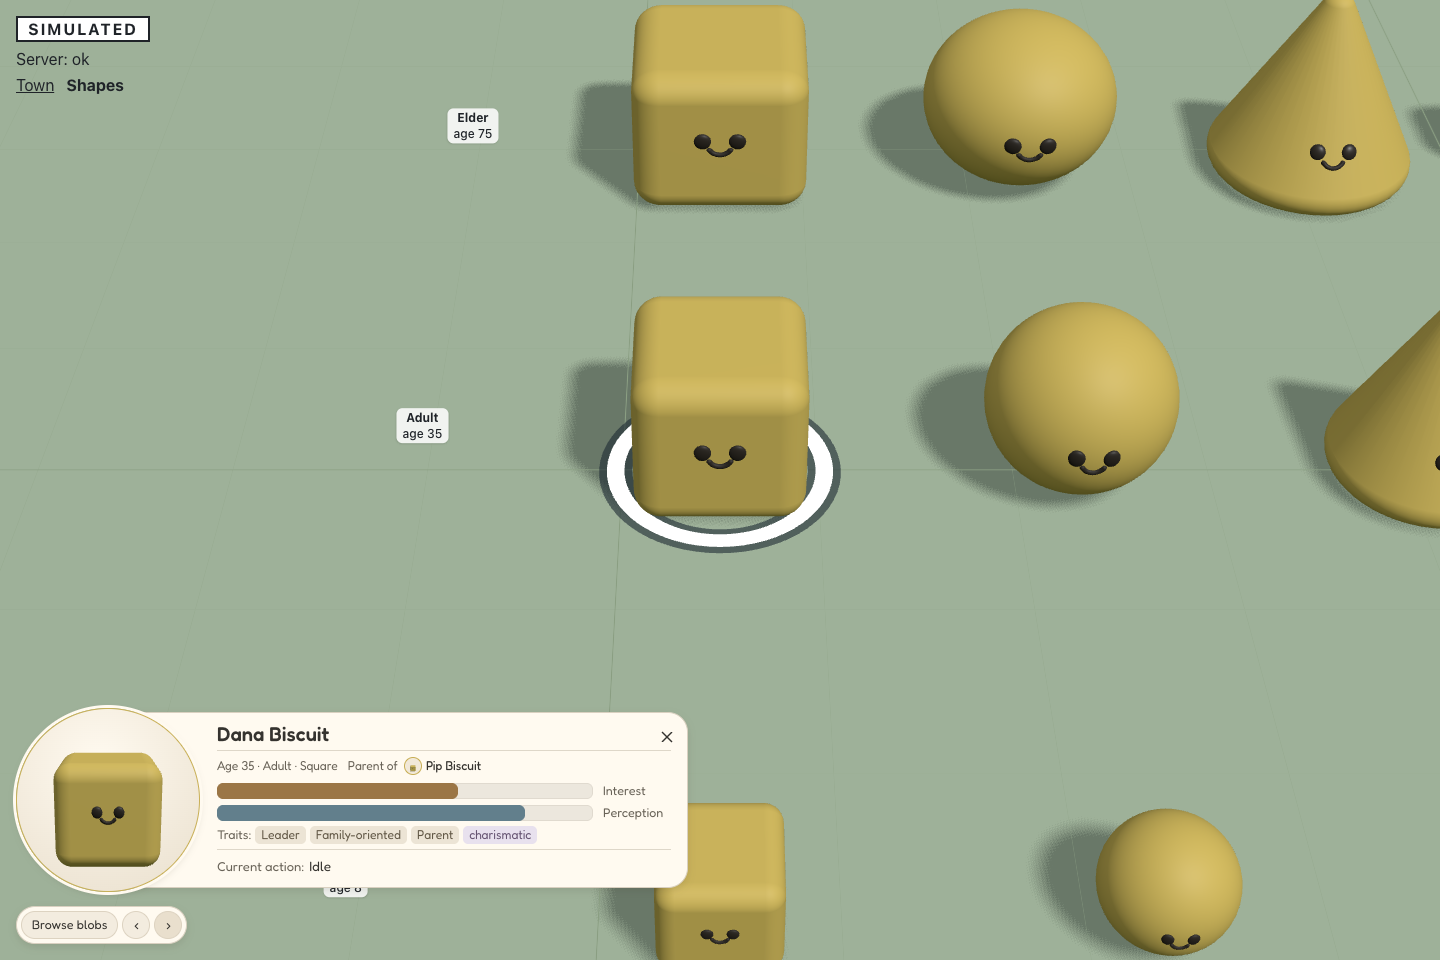
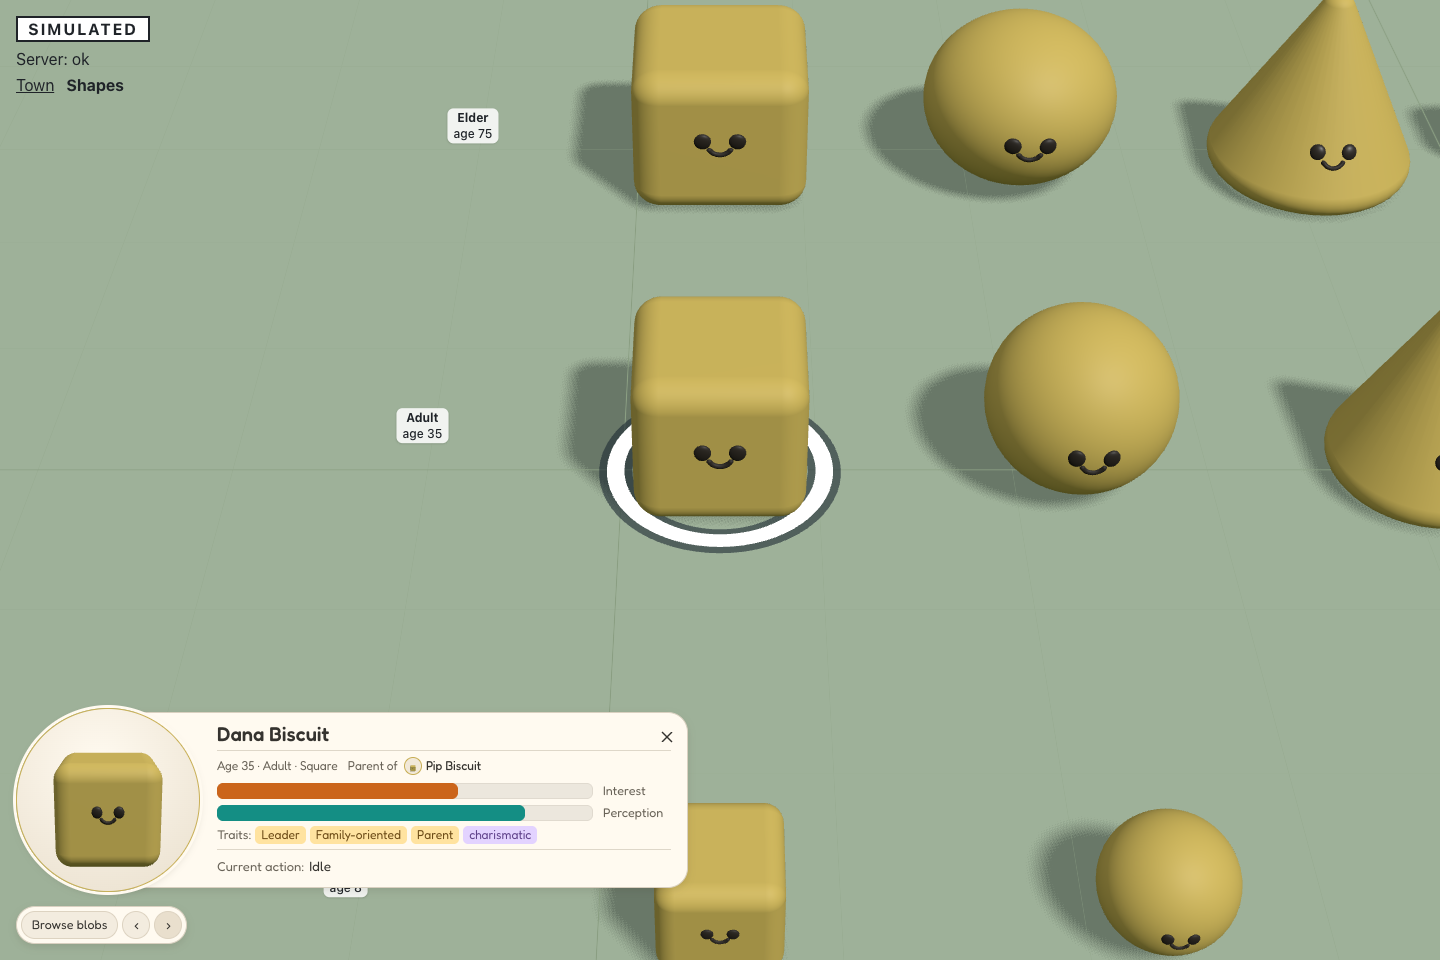
style: brighten inspector meters and trait highlights

Changed region(s): [[0.125, 0.8125, 0.375, 0.9062]]

diff --git a/web/src/inspector/inspector.css b/web/src/inspector/inspector.css
@@ -403,10 +403,10 @@
   overflow-wrap: anywhere;
 }
 
-/* Warm neutral special tags; personality categories have restrained pastel highlights. */
+/* Sunny special tags and brighter pastel personality highlights retain dark, readable text. */
 .tag-special {
-  background: #ece4d5;
-  color: #615745;
+  background: #ffe3a0;
+  color: #6c4b16;
   font-weight: 400;
 }
 
@@ -417,18 +417,18 @@
 }
 
 .tag-credulity {
-  --tag-tint: #dfe9ed;
-  --tag-ink: #465e68;
+  --tag-tint: #c9edf9;
+  --tag-ink: #245c73;
 }
 
 .tag-socialness {
-  --tag-tint: #f3e3ce;
-  --tag-ink: #765935;
+  --tag-tint: #ffdbb5;
+  --tag-ink: #78431c;
 }
 
 .tag-persuasiveness {
-  --tag-tint: #e8e1ee;
-  --tag-ink: #655371;
+  --tag-tint: #e3d3ff;
+  --tag-ink: #60428b;
 }
 
 /* Meters show only their labels; values and score words remain on the accessible meter. */
@@ -464,11 +464,11 @@
 }
 
 .meter-perception .meter-fill {
-  background: #627f8c;
+  background: #148e84;
 }
 
 .meter-interest .meter-fill {
-  background: #9b7646;
+  background: #cb651b;
 }
 
 .meter-label {

diff --git a/docs/BLOB_INSPECTOR.md b/docs/BLOB_INSPECTOR.md
@@ -2,7 +2,7 @@
 
 On **Shapes**, click or tap any blob to open its bottom-left profile. A ring marks the selection. Click another blob to switch; click empty ground, press Escape, or use the close button to dismiss. Orbit/pan gestures do not change the selection, even when the pointer returns to where it started.
 
-The compact ivory panel uses rounded, self-hosted **Fredoka** typography and a circular portrait overlapping its left edge. On desktop the dock is 672px wide, the portrait is 184px across, and the usual rectangle is 176px high. The aligned content column follows the reference sketch: name and divider; age, life stage, shape and inline family portraits; two stacked 16px Interest / Perception bars with labels on the right; muted trait highlights; and a divided **Current action** row with the conversation partner's portrait. **Special tags** (Leader, Recluse, Family-oriented and explicit Parent / Child roles) and personality tags share the visual trait row but retain separate accessible lists. On phones, a 68px portrait overlaps the panel edge beside the identity, with full-width meters, traits and activity below; longer content wraps rather than being clipped. The browse controls and picker use the same palette and typography.
+The compact ivory panel uses rounded, self-hosted **Fredoka** typography and a circular portrait overlapping its left edge. On desktop the dock is 672px wide, the portrait is 184px across, and the usual rectangle is 176px high. The aligned content column follows the reference sketch: name and divider; age, life stage, shape and inline family portraits; two stacked 16px Interest / Perception bars with labels on the right; bright pastel trait highlights; and a divided **Current action** row with the conversation partner's portrait. **Special tags** (Leader, Recluse, Family-oriented and explicit Parent / Child roles) and personality tags share the visual trait row but retain separate accessible lists. On phones, a 68px portrait overlaps the panel edge beside the identity, with full-width meters, traits and activity below; longer content wraps rather than being clipped. The browse controls and picker use the same palette and typography.
 
 Fredoka is served locally from `web/public/fonts/`, with its SIL Open Font License alongside it. There are no third-party font requests or new package dependencies.
 
